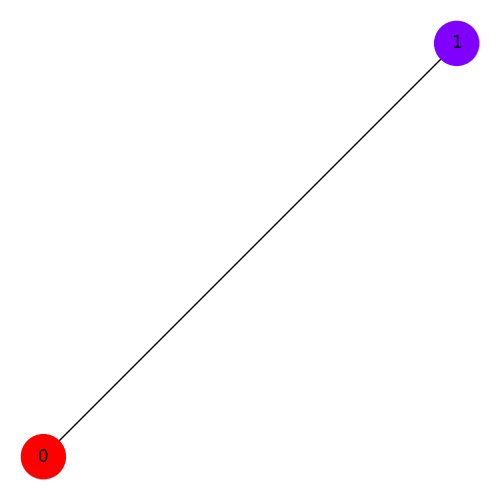
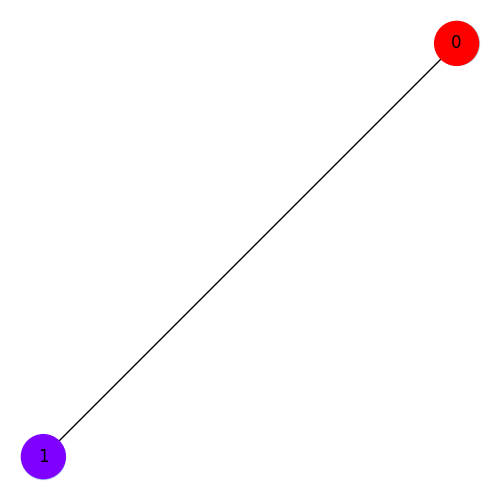
major css changes

Changed region(s): [[0.87, 0.03, 0.96, 0.15], [0.03, 0.87, 0.15, 0.96]]

diff --git a/templates/PL2/index.html b/templates/PL2/index.html
@@ -9,7 +9,7 @@
 </head>
 
 <body>
-    <button id="gg" onclick="window.location.href = '/'">Acceuil</button>
+    <button id="gg" onclick="window.location.href = '/'">Home</button>
     <div class="flex-container">
         <div class="container">
             <h1>Graph Coloring Problem</h1>
@@ -23,7 +23,6 @@
                 <div id="edges">
                     <h3>Edges</h3>
                     <p>Provide edges as pairs (e.g., "0 1").</p>
-                    <!-- Dynamic fields for edges will be added by JavaScript -->
                 </div>
 
                 <button type="submit">Solve</button>

diff --git a/templates/PL2/result.html b/templates/PL2/result.html
@@ -9,7 +9,7 @@
 </head>
 
 <body>
-    <button id="gg" onclick="window.location.href = '/'">Acceuil</button>
+    <button id="gg" onclick="window.location.href = '/'">Home</button>
     <div class="flex-container">
         <div class="container">
             <h1>Graph Coloring Result</h1>
@@ -30,7 +30,7 @@
                 {% endfor %}
 
             </table>
-            <a href="{{ url_for('index2') }}" class="button">Solve Another Graph</a>
+            <a href="{{ url_for('PL2') }}" class="button">Solve Another Graph</a>
         </div>
     </div>
 </body>

diff --git a/templates/PL1/property_naming.html b/templates/PL1/property_naming.html
@@ -7,7 +7,7 @@
 </head>
 
 <body>
-    <button id="gg" class="back-button" onclick="navigateTo('/')">Acceuil</button>
+    <button id="gg" class="back-button" onclick="navigateTo('/')">Home</button>
     <div class="flex-container">
         <div class="container">
             <h1>Name the Properties</h1>

diff --git a/templates/PL3/index.html b/templates/PL3/index.html
@@ -9,7 +9,7 @@
 </head>
 
 <body>
-    <button id="gg" onclick="window.location.href = '/'">Acceuil</button>
+    <button id="gg" onclick="window.location.href = '/'">Home</button>
     <div class="flex-container">
         <div class="container">
             <h1>Step 1: Define Problem Dimensions</h1>

diff --git a/templates/PL3/details.html b/templates/PL3/details.html
@@ -9,7 +9,7 @@
 </head>
 
 <body>
-    <button id="gg" onclick="window.location.href = '/'">Acceuil</button>
+    <button id="gg" onclick="window.location.href = '/'">Home</button>
     <div class="flex-container">
         <div class="container">
             <h1>Step 3: Provide Input Details</h1>

diff --git a/templates/PL3/names.html b/templates/PL3/names.html
@@ -9,7 +9,7 @@
 </head>
 
 <body>
-    <button id="gg" onclick="window.location.href = '/'">Acceuil</button>
+    <button id="gg" onclick="window.location.href = '/'">Home</button>
     <div class="flex-container">
         <div class="container">
             <h1>Step 2: Enter Product Names</h1>

diff --git a/templates/PL3/result.html b/templates/PL3/result.html
@@ -9,7 +9,7 @@
 </head>
 
 <body>
-    <button id="gg" onclick="window.location.href = '/'">Acceuil</button>
+    <button id="gg" onclick="window.location.href = '/'">Home</button>
     <div class="flex-container">
         <div class="container">
             <h1>Optimization Results</h1>

diff --git a/templates/PL1/result.html b/templates/PL1/result.html
@@ -7,7 +7,7 @@
 </head>
 
 <body>
-    <button id="gg" onclick="navigateTo('/')">Acceuil</button>
+    <button id="gg" onclick="navigateTo('/')">Home</button>
     <div class="flex-container">
         <div class="container">
             <h1>Blending Problem Solution</h1>

diff --git a/templates/PL1/input_ingredients.html b/templates/PL1/input_ingredients.html
@@ -9,7 +9,7 @@
 </head>
 
 <body>
-    <button id="gg" onclick="navigateTo('/')">Acceuil</button>
+    <button id="gg" onclick="navigateTo('/')">Home</button>
     <div class="flex-container">
         <div class="container">
             <h1>Input Ingredient Details</h1>

diff --git a/templates/PL1/index.html b/templates/PL1/index.html
@@ -9,7 +9,7 @@
 </head>
 
 <body>
-    <button id="gg" onclick="navigateTo('/')">Acceuil</button>
+    <button id="gg" onclick="navigateTo('/')">Home</button>
     <div class="flex-container">
         <div class="container">
             <h1>Blending Problem Setup</h1>

diff --git a/templates/PL1/input_property_bounds.html b/templates/PL1/input_property_bounds.html
@@ -7,7 +7,7 @@
 </head>
 
 <body>
-    <button id="gg" onclick="navigateTo('/')">Acceuil</button>
+    <button id="gg" onclick="navigateTo('/')">Home</button>
     <div class="flex-container">
 
         <div class="container">

diff --git a/templates/PL1/input_properties.html b/templates/PL1/input_properties.html
@@ -7,7 +7,7 @@
 </head>
 
 <body>
-    <button id="gg" onclick="navigateTo('/')">Acceuil</button>
+    <button id="gg" onclick="navigateTo('/')">Home</button>
 
     <div class="flex-container">
 
